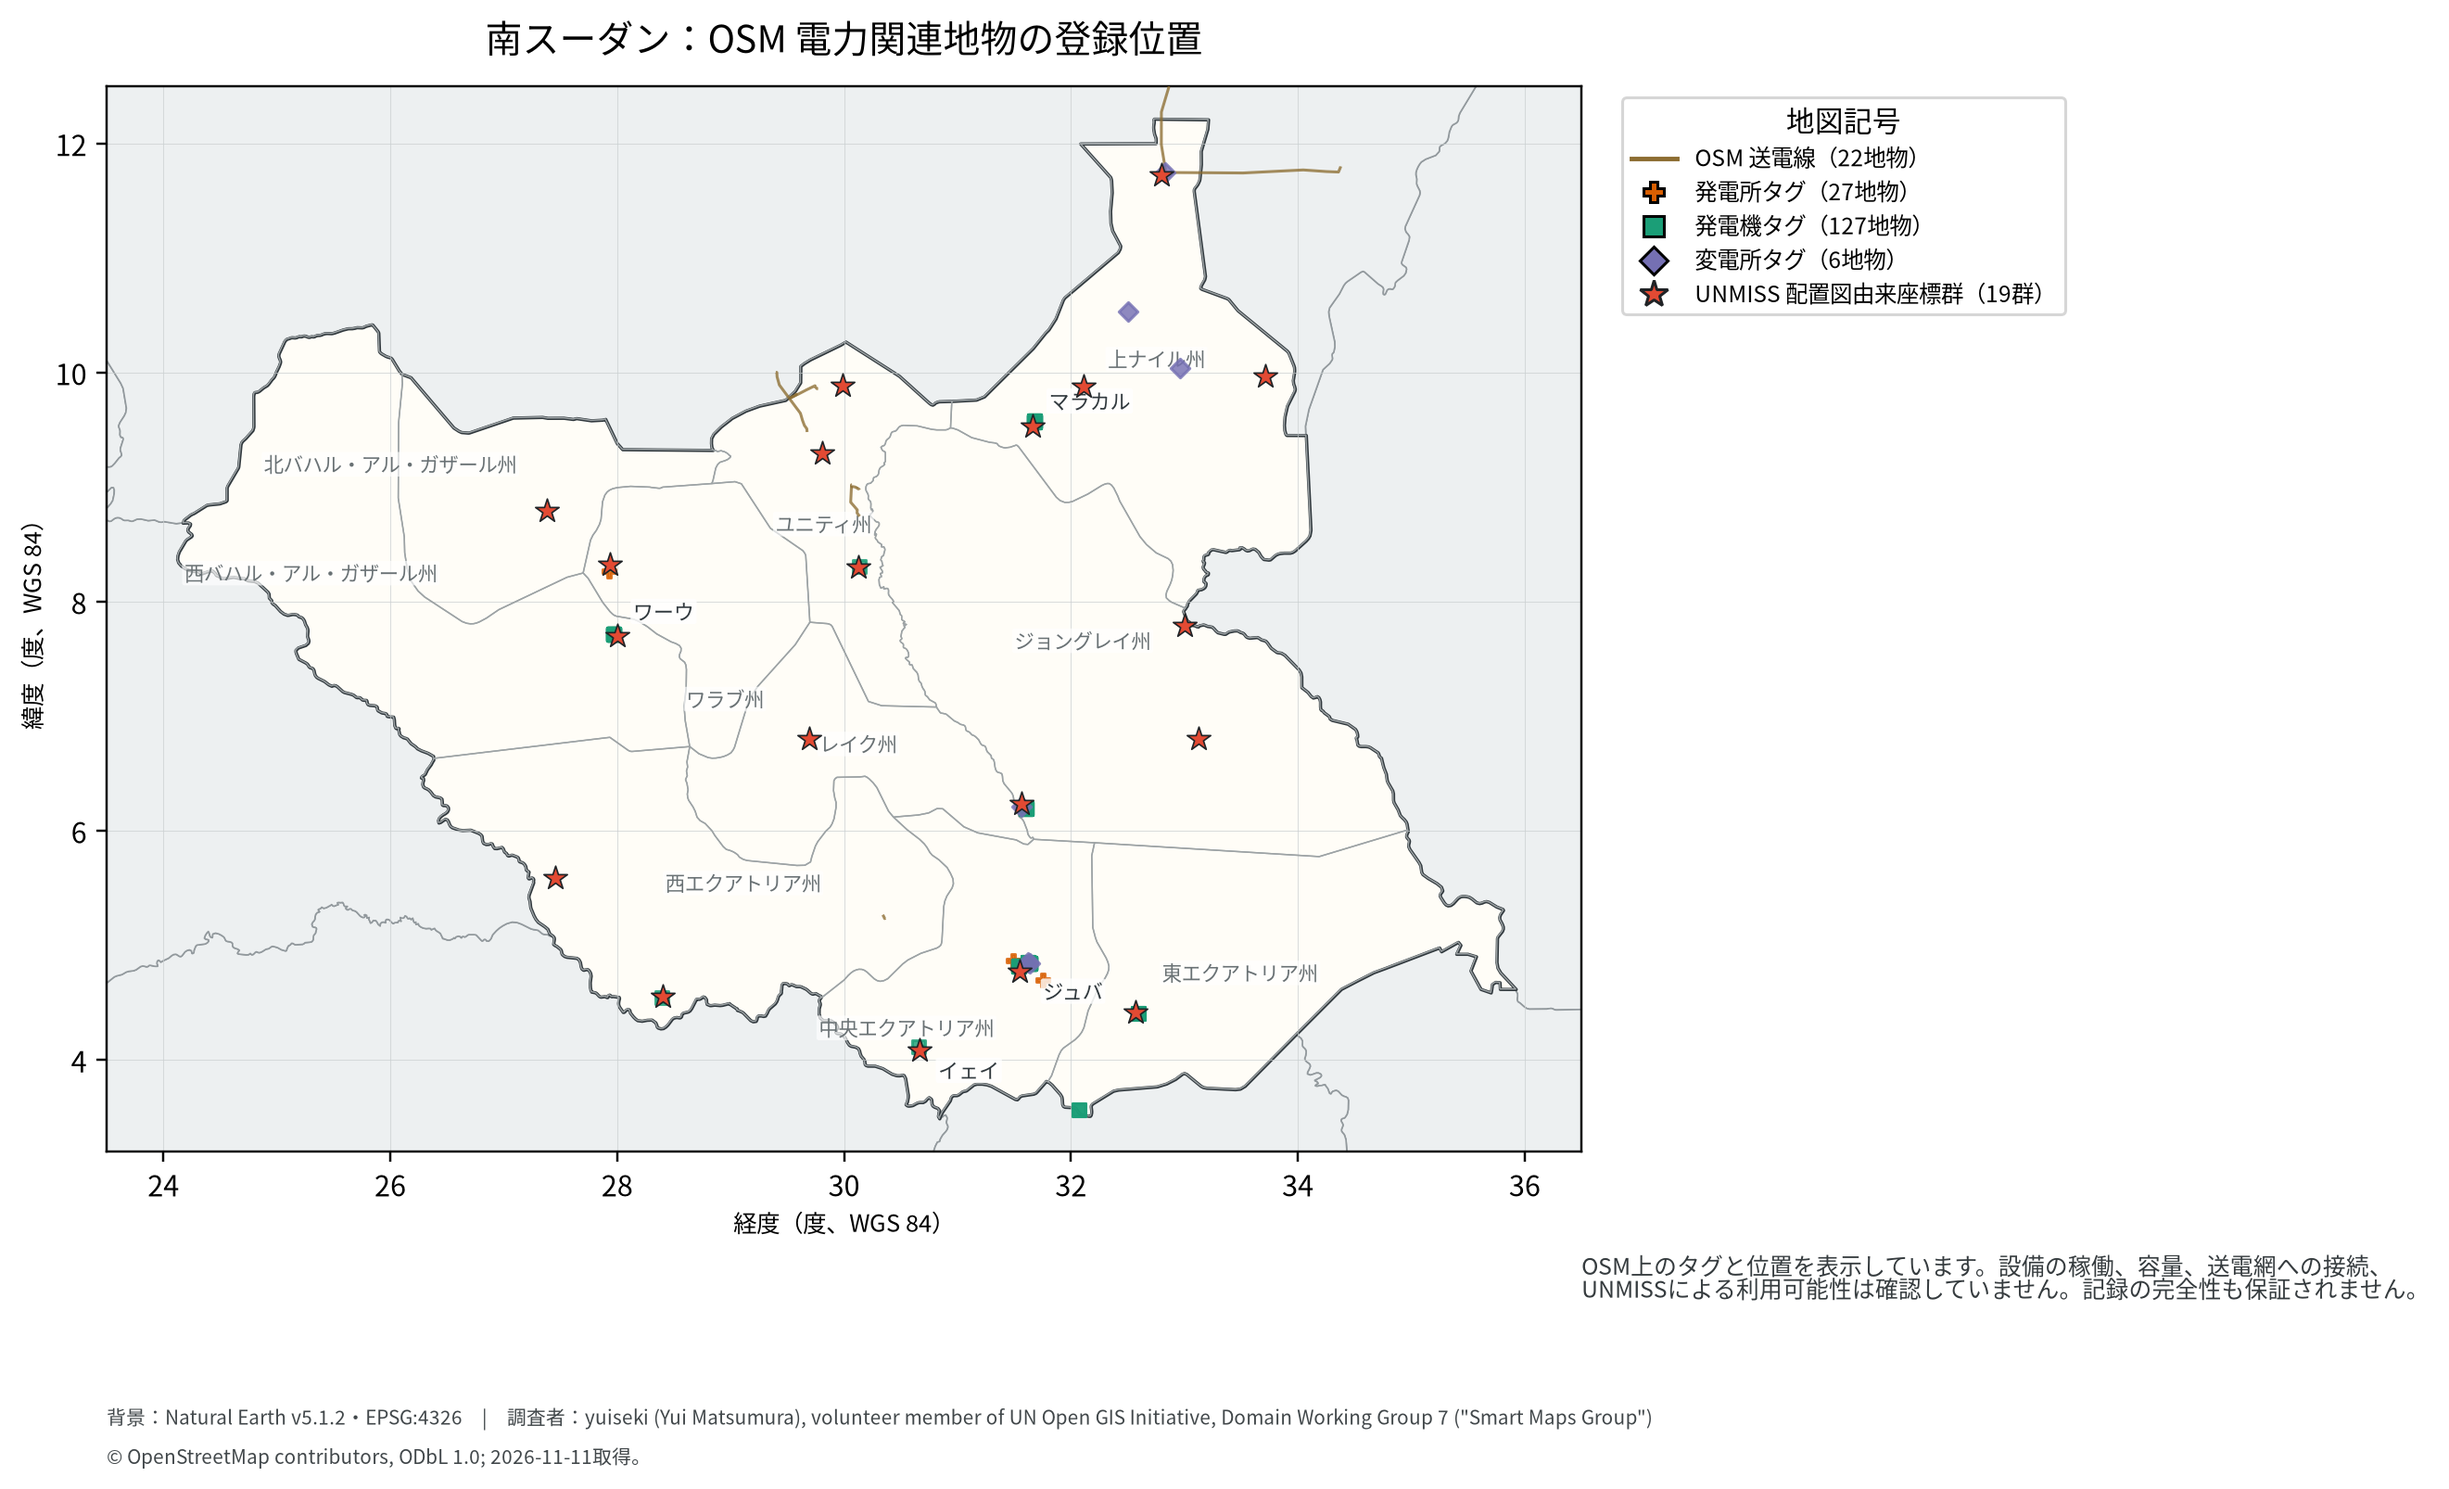
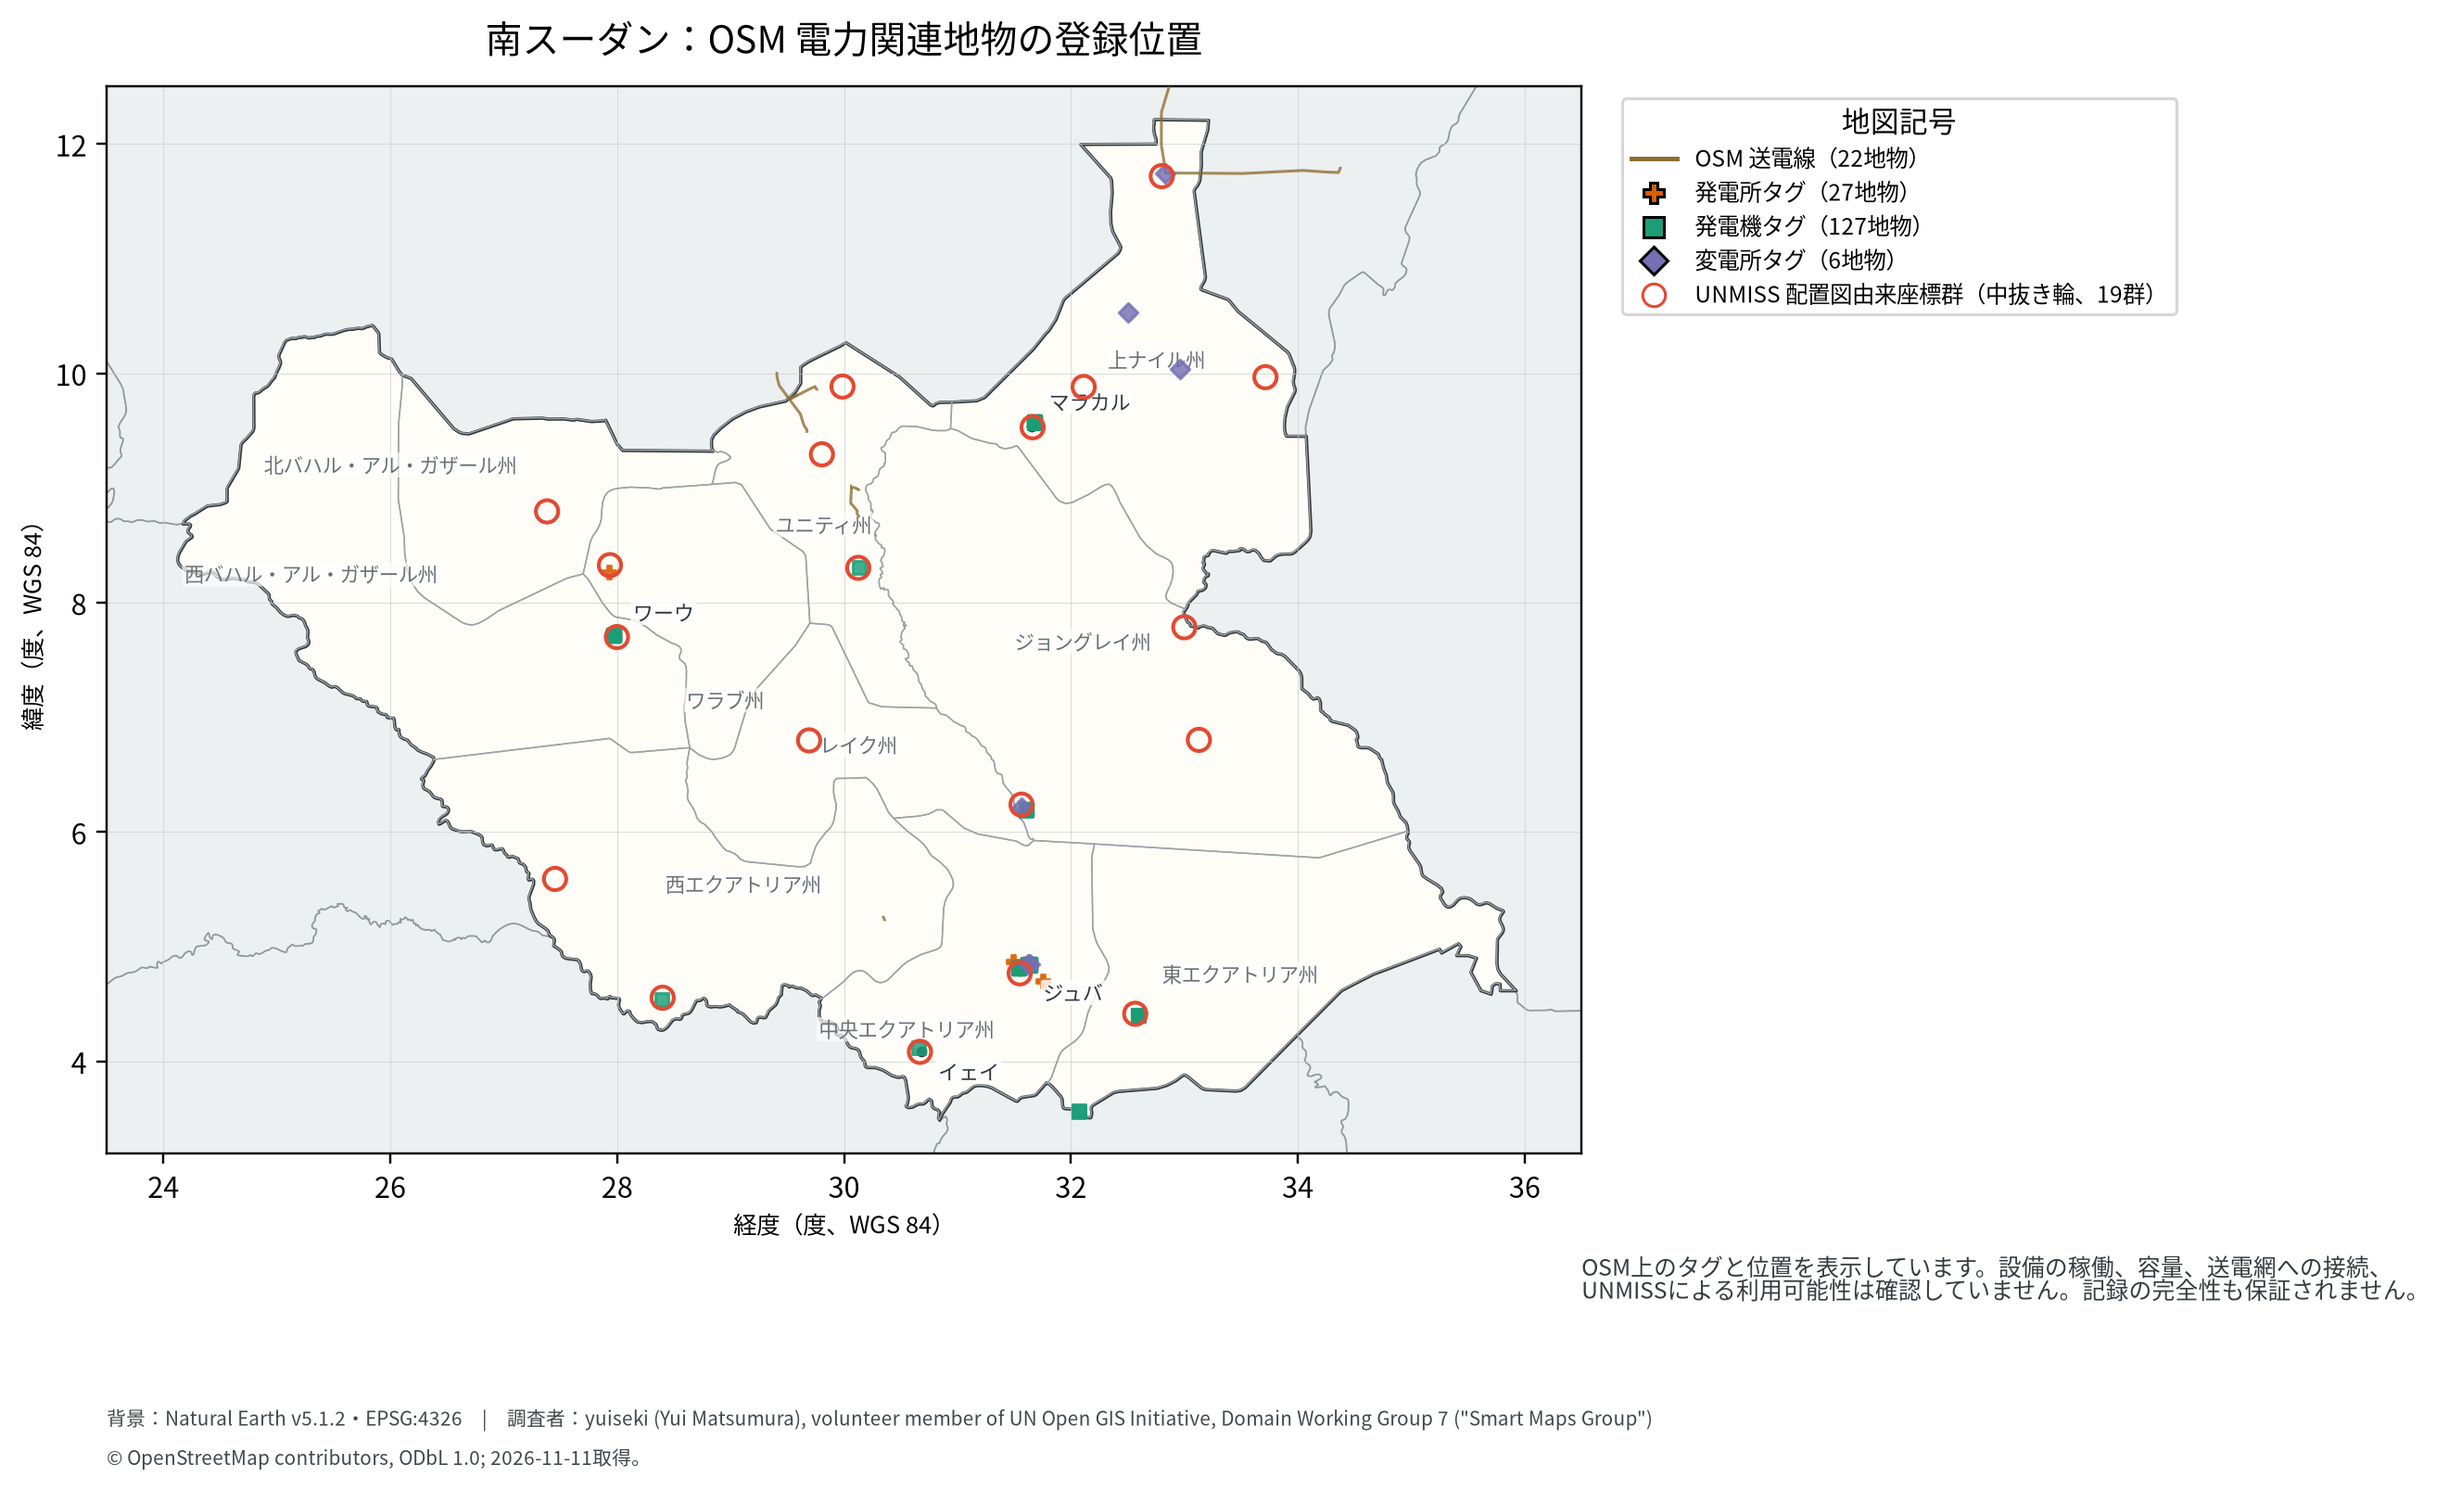
Improve map legibility around deployment markers

diff --git a/projects/_telecom/south-sudan-unmiss-telecom-gap/scripts/02_figures.py b/projects/_telecom/south-sudan-unmiss-telecom-gap/scripts/02_figures.py
@@ -116,6 +116,12 @@ def _save_metadata(name, metadata):
     (OUT / f"{name}.json").write_text(json.dumps(metadata, ensure_ascii=False, indent=2) + "\n", encoding="utf-8")
 
 
+def _plot_deployment_markers(ax, sites):
+    """Use transparent markers so measurements and mapped assets underneath remain legible."""
+    ax.scatter(sites.geometry.x, sites.geometry.y, s=62, marker="o", facecolors="none",
+               edgecolors="#e34a33", linewidths=1.35, zorder=8)
+
+
 def plot_opencellid_map(natural_earth_dir):
     countries, south_sudan, states, places = _context(natural_earth_dir)
     sites = _sites()
@@ -134,11 +140,10 @@ def plot_opencellid_map(natural_earth_dir):
                edgecolors="white", linewidths=0.25, zorder=5)
     ax.scatter(lte.geometry.x, lte.geometry.y, s=43, marker="^", c="#d73027", alpha=0.9,
                edgecolors="white", linewidths=0.4, zorder=6)
-    sites.plot(ax=ax, marker="*", color="#f28e2b", markersize=80,
-               edgecolor="#24292d", linewidth=0.55, zorder=8)
+    _plot_deployment_markers(ax, sites)
     handles = [
-        Line2D([0], [0], marker="*", color="none", markerfacecolor="#f28e2b", markeredgecolor="#24292d",
-               markersize=10, label=f"UNMISS 配置図由来座標群（{len(sites)}群）"),
+        Line2D([0], [0], marker="o", color="none", markerfacecolor="none", markeredgecolor="#e34a33",
+               markersize=8, label=f"UNMISS 配置図由来座標群（中抜き輪、{len(sites)}群）"),
         Line2D([0], [0], marker="o", color="none", markerfacecolor="#6a51a3", markersize=6,
                label=f"GSM 登録セル記録（{len(gsm)}件）"),
         Line2D([0], [0], marker="^", color="none", markerfacecolor="#d73027", markersize=8,
@@ -160,6 +165,7 @@ def plot_opencellid_map(natural_earth_dir):
     metadata.update({
         "question": "配置図由来座標と OpenCelliD 登録セル記録は、地理的にどこに位置するか。",
         "font": font, "record_counts": {"opencellid_mcc659": len(points), "gsm": len(gsm), "lte": len(lte)},
+        "deployment_marker": "small hollow orange ring; underlying records remain visible",
         "opencellid_attribution": OPENCELLID_ATTRIBUTION,
         "caveat": "登録記録の位置であり、実設備・稼働・電波到達・サービス可用性を意味しない。",
     })
@@ -184,13 +190,12 @@ def plot_ookla_map(natural_earth_dir):
                         vmax=float(speeds.max()), alpha=0.86, edgecolors="white", linewidths=0.35, zorder=5)
     colorbar = fig.colorbar(points, ax=ax, fraction=0.034, pad=0.025)
     colorbar.set_label("タイル内の平均下り速度（Mbps）")
-    sites.plot(ax=ax, marker="*", color="#e34a33", markersize=76,
-               edgecolor="#202326", linewidth=0.55, zorder=7)
+    _plot_deployment_markers(ax, sites)
     ax.legend(handles=[
         Line2D([0], [0], marker="o", color="none", markerfacecolor="#555555", markersize=7,
                label="Ookla 測定地点（色：平均速度、点の大きさ：テスト数）"),
-        Line2D([0], [0], marker="*", color="none", markerfacecolor="#e34a33", markeredgecolor="#202326",
-               markersize=10, label=f"UNMISS 配置図由来座標群（{len(sites)}群）"),
+        Line2D([0], [0], marker="o", color="none", markerfacecolor="none", markeredgecolor="#e34a33",
+               markersize=8, label=f"UNMISS 配置図由来座標群（中抜き輪、{len(sites)}群）"),
     ], loc="upper left", bbox_to_anchor=(1.28, 1), fontsize=8, frameon=True, title="地図記号")
     ax.set_title("南スーダン：Ookla モバイル測定地点と UNMISS 配置図由来座標", fontsize=13, pad=12)
     fig.text(0.72, 0.16, "色はタイル内の平均下り速度、点の大きさはテスト回数（30回で上限）。\n"
@@ -208,6 +213,7 @@ def plot_ookla_map(natural_earth_dir):
     metadata.update({
         "question": "2024年第2四半期に記録された Ookla モバイル測定値はどこに分布するか。",
         "font": font, "observed_tile_centres": len(ookla), "value": "tile mean download speed (Mbps)",
+        "deployment_marker": "small hollow orange ring; underlying records remain visible",
         "size": "tests per tile, capped at 30", "speed_range_mbps": [0, round(float(speeds.max()), 3)],
         "ookla_attribution": OOKLA_ATTRIBUTION,
         "caveat": "未観測地点は速度ゼロではなく、配置地点での可用性・性能を保証しない。",
@@ -237,15 +243,14 @@ def plot_osm_map(natural_earth_dir):
         subset = power_points[power_points["type"] == kind]
         if len(subset):
             subset.plot(ax=ax, color=color, marker=marker, markersize=22, alpha=0.82, zorder=5)
-    sites.plot(ax=ax, marker="*", color="#e34a33", markersize=76,
-               edgecolor="#202326", linewidth=0.55, zorder=7)
+    _plot_deployment_markers(ax, sites)
     handles = [
         Line2D([0], [0], color="#8c6d31", linewidth=1.6, label=f"OSM 送電線（{len(power_lines)}地物）"),
         *[Line2D([0], [0], marker=type_styles[k][2], color="none", markerfacecolor=type_styles[k][1],
                  markersize=7, label=f"{type_styles[k][0]}（{int((power_points['type'] == k).sum())}地物）")
           for k in type_styles if k in present],
-        Line2D([0], [0], marker="*", color="none", markerfacecolor="#e34a33", markeredgecolor="#202326",
-               markersize=10, label=f"UNMISS 配置図由来座標群（{len(sites)}群）"),
+        Line2D([0], [0], marker="o", color="none", markerfacecolor="none", markeredgecolor="#e34a33",
+               markersize=8, label=f"UNMISS 配置図由来座標群（中抜き輪、{len(sites)}群）"),
     ]
     ax.legend(handles=handles, loc="upper left", bbox_to_anchor=(1.02, 1), title="地図記号", fontsize=8)
     ax.set_title("南スーダン：OSM 電力関連地物の登録位置", fontsize=13, pad=12)
@@ -263,6 +268,7 @@ def plot_osm_map(natural_earth_dir):
     metadata.update({
         "question": "OSMには南スーダンのどこに電力関連地物が登録されているか。",
         "font": font, "osm_power_points": len(power_points), "osm_power_lines": len(power_lines),
+        "deployment_marker": "small hollow orange ring; underlying records remain visible",
         "osm_tags": sorted(present), "attribution": OSM_ATTRIBUTION,
         "caveat": "OSMの登録は稼働・容量・接続・サービス・UNMISSからの利用可能性を示さない。",
     })

diff --git a/projects/_telecom/south-sudan-unmiss-telecom-gap/scripts/test_analysis.py b/projects/_telecom/south-sudan-unmiss-telecom-gap/scripts/test_analysis.py
@@ -54,6 +54,7 @@ def test_maps_are_japanese_geographic_decision_support():
         assert metadata["language"] == "ja"
         assert metadata["deployment_coordinate_clusters"] == 19
         assert metadata["map_extent"] == "South Sudan and neighboring countries"
+        assert metadata["deployment_marker"] == "small hollow orange ring; underlying records remain visible"
         assert (root / f"{name}.png").exists()
     cells = pd.read_csv(root / "opencellid_mcc659_cell_records.csv", encoding="utf-8")
     assert len(cells) == 554
